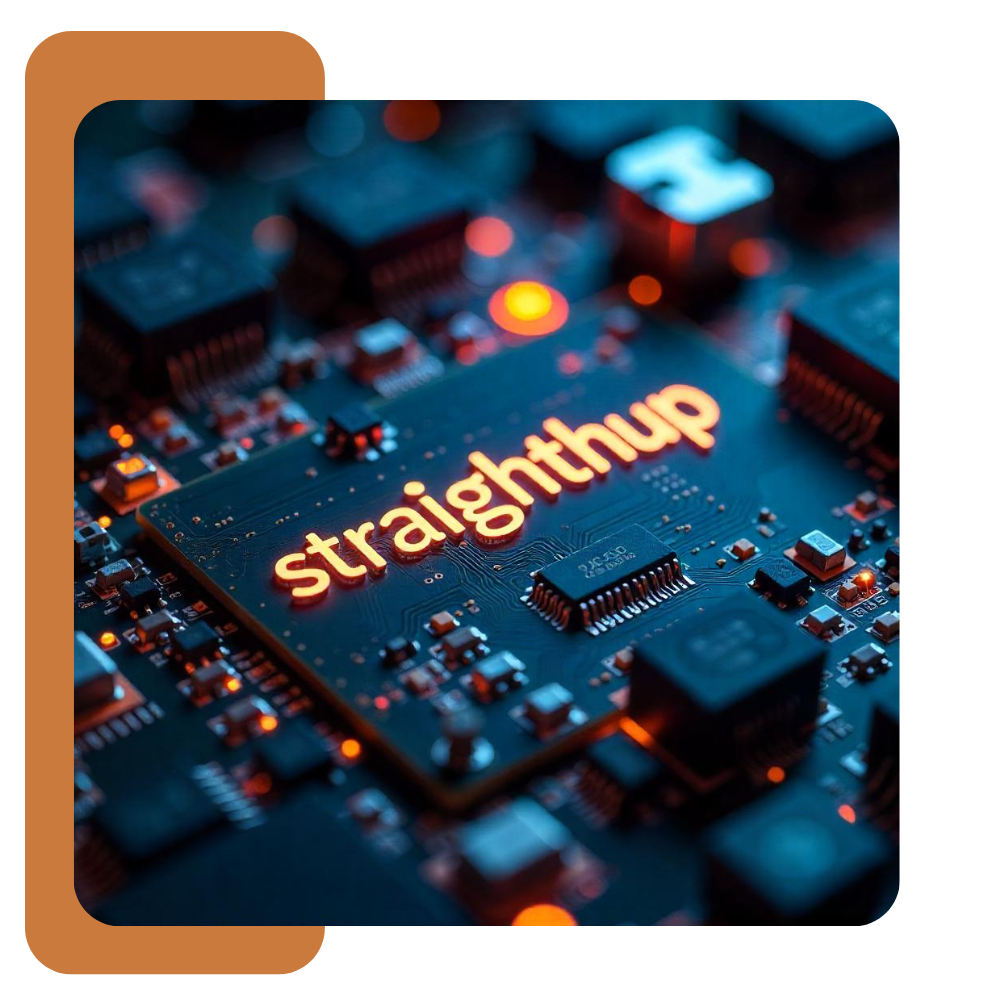
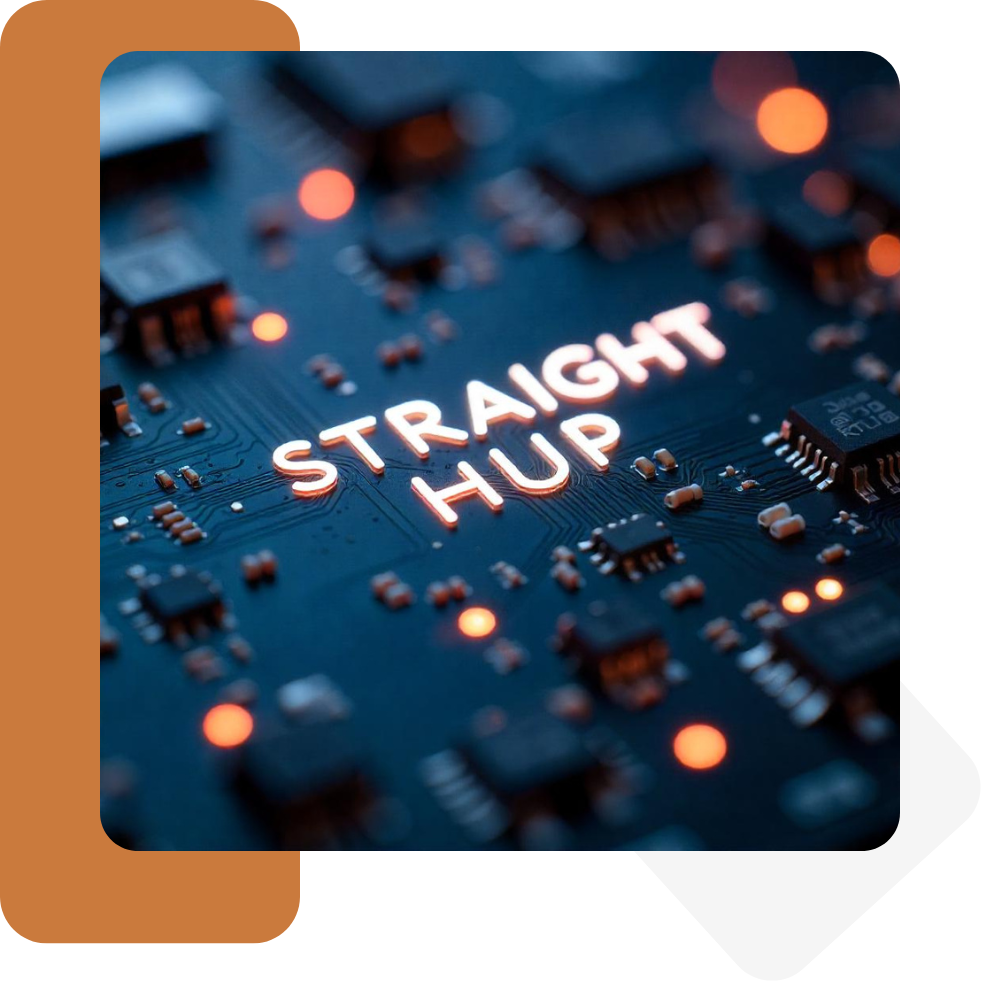
Add files via upload

diff --git a/src/components/Footer.tsx b/src/components/Footer.tsx
@@ -14,9 +14,9 @@ const Footer: React.FC = () => {
         <div className="py-16 grid grid-cols-1 md:grid-cols-2 lg:grid-cols-4 gap-12">
           {/* Company Info */}
           <div>
-            <h3 className="text-2xl font-bold mb-6"> straighthub</h3>
+            <h3 className="text-2xl font-bold mb-6"> STRAIGHT HUP</h3>
             <p className="mb-6 text-white/80">
-               "ستريت هب"، نفتح لك التحديات الواقعية من مشاريع وطنية، ونعطيك
+              "ستريت هب"، نفتح لك التحديات الواقعية من مشاريع وطنية، ونعطيك
               المجال لتشارك بحلك. كل شيء يبدأ من فكرة
             </p>
             <div className="flex gap-3">
@@ -68,15 +68,31 @@ const Footer: React.FC = () => {
             <ul className="space-y-4">
               <li className="flex items-center">
                 <FaPhone className="w-5 h-5 ml-3" />
-                <span>+966 123 456 7890</span>
+                <span>
+                  {" "}
+                  <a
+                    href="tel:+966561264385"
+                    className="hover:underline "
+                  >
+                    +966561264385
+                  </a>{" "}
+                </span>
               </li>
               <li className="flex items-center">
                 <IoMdMail className="w-5 h-5 ml-3" />
-                <span>info@straighthub.com</span>
+                <span>
+                  {" "}
+                  <a
+                    href="mailto:Info@straighthup.com"
+                    className="hover:underline "
+                  >
+                    Info@straighthup.com
+                  </a>
+                </span>
               </li>
               <li className="flex items-start">
                 <TiLocation className="w-5 h-5 ml-3 mt-1" />
-                <span>طريق الملك فهد، برج الأعمال،</span>
+                <span>المملكة العربية السعودية.. مكة المكرمة </span>
               </li>
             </ul>
           </div>
@@ -85,7 +101,7 @@ const Footer: React.FC = () => {
         {/* Bottom Footer */}
         <div className="py-6 border-t border-white/20 flex flex-col md:flex-row justify-between items-center">
           <p className="text-white/70 mb-4 md:mb-0">
-            © {new Date().getFullYear()} أسطورة اللوجستية. جميع الحقوق محفوظة
+            © {new Date().getFullYear()} STRAIGHT HUP . جميع الحقوق محفوظة
           </p>
           <div className="flex gap-4">
             <FooterSmallLink href="#">سياسة الخصوصية</FooterSmallLink>

diff --git a/src/components/Contact.tsx b/src/components/Contact.tsx
@@ -1,4 +1,3 @@
-
 import { FaPhone } from "react-icons/fa";
 import { IoMdMail } from "react-icons/io";
 import { TiLocation } from "react-icons/ti";
@@ -35,8 +34,14 @@ const Contact = () => {
                 </div>
                 <div>
                   <h4 className="font-bold mb-1">اتصل بنا</h4>
-                  <p className="text-gray-600 mb-1">+966 123 456 7890</p>
-                  <p className="text-gray-600">+966 123 456 7891</p>
+                  <p className="text-gray-600 mb-1">
+                    <a
+                      href="tel:+966561264385"
+                      className="hover:underline hover:text-black"
+                    >
+                      +966561264385
+                    </a>{" "}
+                  </p>
                 </div>
               </div>
 
@@ -47,9 +52,13 @@ const Contact = () => {
                 <div>
                   <h4 className="font-bold mb-1">البريد الإلكتروني</h4>
                   <p className="text-gray-600 mb-1">
-                    info@straighthub.com
+                    <a
+                      href="mailto:Info@straighthup.com"
+                      className="hover:underline hover:text-black"
+                    >
+                      Info@straighthup.com
+                    </a>
                   </p>
-                  <p className="text-gray-600">support@straighthub.com</p>
                 </div>
               </div>
 
@@ -59,11 +68,9 @@ const Contact = () => {
                 </div>
                 <div>
                   <h4 className="font-bold mb-1">المقر الرئيسي</h4>
+
                   <p className="text-gray-600">
-                    طريق الملك فهد، برج الأعمال، الطابق 25
-                  </p>
-                  <p className="text-gray-600">
-                    الرياض، المملكة العربية السعودية
+                    المملكة العربية السعودية.. مكة المكرمة
                   </p>
                 </div>
               </div>
@@ -130,10 +137,12 @@ const Contact = () => {
                 >
                   الموضوع
                 </label>
-                
-                <input id="subject" placeholder="موضوع الرسالة" required 
+
+                <input
+                  id="subject"
+                  placeholder="موضوع الرسالة"
+                  required
                   className="w-full p-3 border border-gray-300 rounded-lg focus:outline-none focus:ring-2 focus:ring-straighthub"
-                
                 />
               </div>
 

diff --git a/src/components/Services.tsx b/src/components/Services.tsx
@@ -7,23 +7,23 @@ export const serviceContent = [
     icon: "/service (5).png",
   },
   {
-    name: " مواجهة التحديات الرقمية",
+    name: "حلول الذكاء الاصطناعي",
 
     icon: "/service (4).png",
   },
   {
-    name: " بناء شراكات استراتيجية",
-
+    
+    name: "تطوير الأنظمة الذكية",
     icon: "/service (3).png",
   },
   {
-    name: " تعزيز المشاركة المجتمعية",
-
+    name: "استشارات استراتيجية تقنية",
+    
     icon: "/service (1).png",
   },
   {
-    name: "بنية تحتية رقمية",
-
+    
+    name: "بنية تحتية سحابية",
     icon: "/service (2).png",
   },
   {
@@ -36,8 +36,8 @@ const Services = () => {
   return (
     <section className="py-10 " id="services">
       <Title
-        title="الخدمات"
-        subtitle="عندك حل أو ابتكار مجموعة تعزز من أداء الجهات الكبرى والمشاريع الواعدة وتساعدها على التوسع بذكاء."
+        title="حلول الابتكار"
+        subtitle="عندك حل أو ابتكار مجموعة تعزز من أداء الجهات الكبرى والمشاريع الواعدة وتساعدها على التوسع بذكاء؟"
       />
       <div className="container">
         <motion.div
@@ -82,6 +82,9 @@ const Services = () => {
           })}
         </motion.div>
       </div>
+       <button className="px-8 py-3 block my-5 mx-auto font-bold bg-straighthub text-white rounded-lg hover:scale-105 transition transform">
+          ابدا معنا
+          </button>
     </section>
   );
 };

diff --git a/src/components/Hero.tsx b/src/components/Hero.tsx
@@ -126,7 +126,7 @@ const HeroSection: React.FC = () => {
           animate={{ opacity: 1, y: 0 }}
           transition={{ duration: 1 }}
         >
-          <span className="text-straighthub">فكرتك.. </span> ممكن تبني مستقبل
+          <span className="text-straighthub">بعد فكرتك.. </span> ممكن تبني مستقبل
         </motion.h1>
 
         <motion.p
@@ -135,7 +135,7 @@ const HeroSection: React.FC = () => {
           animate={{ opacity: 1 }}
           transition={{ delay: 0.5, duration: 1 }}
         >
-          حيث تلتقي التقنيات الحديثة بالحلول الذكية، وتُصنع الفرص العظيمة.
+    شارك بحلك، واختر التحدي المناسب، وكن جزءًا من رحلة تحويل الأفكار إلى إنجازات.
         </motion.p>
 
         <motion.div

diff --git a/src/components/Sectors.tsx b/src/components/Sectors.tsx
@@ -2,10 +2,10 @@ import { motion } from "framer-motion";
 import Title from "./Title";
 
 const sectors = [
-  "القطاع الحكومي",
-  "الصحة والتقنية الحيوية",
-  "التعليم والتدريب",
-  "الصناعة واللوجستيات",
+  " التصنيع الرقمي",
+"الابتكار في تجربة العملاء",
+  "التقنيات المتقدمة",
+  "ابتكار حلول المنتجات والخدمات",
   "ريادة الأعمال ",
 ];
 
